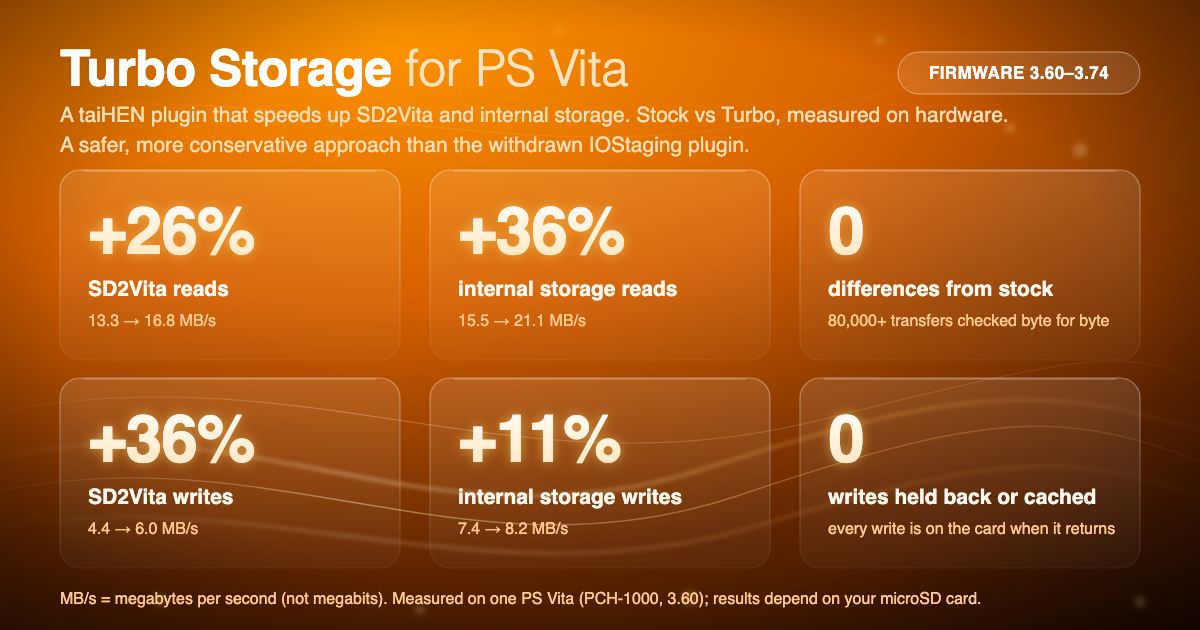
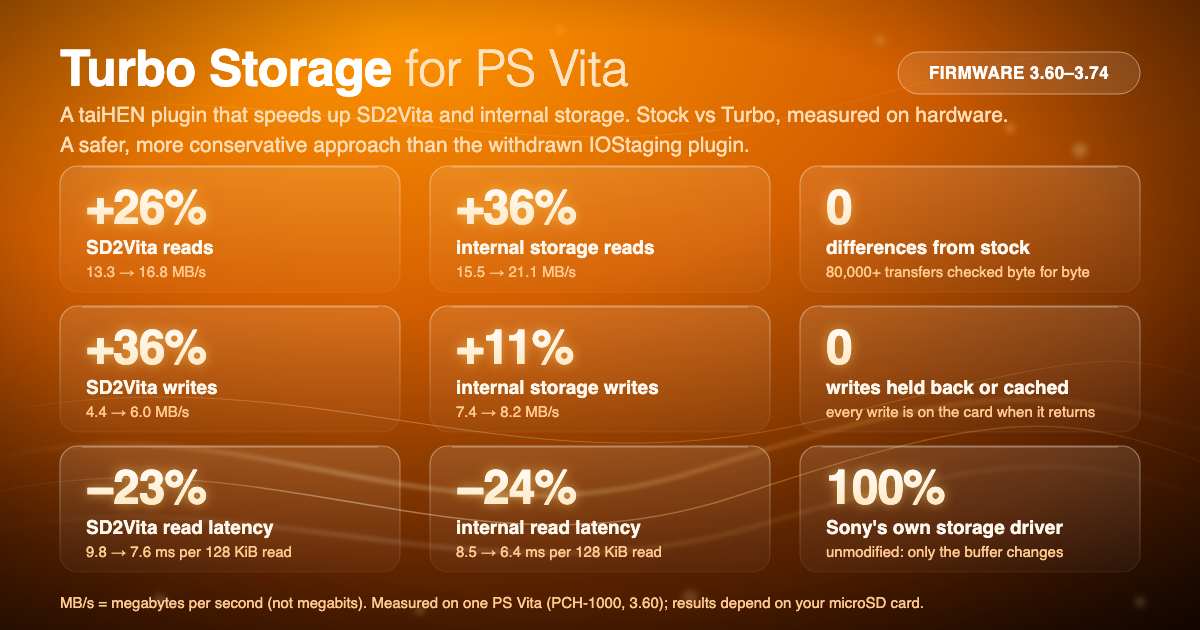
docs: add read latency figures and credit bythos14 for IOStaging
The headline image gains a latency row (SD2Vita and internal read latency,
and the unmodified-driver point); the README gains a Latency table measured
call by call. IOStaging's author, bythos14, is now credited as the
inspiration.

diff --git a/README.md b/README.md
@@ -51,6 +51,24 @@ byte-for-byte afterwards.
 Writes vary a lot from run to run because the card itself pauses to reorganise
 its flash; the write figures are averages over three or four alternated rounds.
 
+### Latency
+
+How long each single read takes, timed call by call (median, and the slowest 1%
+in brackets). Three alternated rounds, same console.
+
+| Read size | Stock | Turbo Storage | Change |
+|---|---|---|---|
+| SD2Vita, 32 KiB | 3.3 ms (3.6) | **2.3 ms (2.7)** | **−31%** |
+| SD2Vita, 128 KiB | 9.8 ms (10.5) | **7.6 ms (8.7)** | **−23%** |
+| SD2Vita, 1 MiB | 73.9 ms (79.3) | **59.0 ms (62.2)** | **−20%** |
+| Internal, 128 KiB | 8.5 ms (9.9) | **6.4 ms (7.4)** | **−24%** |
+| Internal, 1 MiB | 63.5 ms (97.9) | **46.7 ms (72.0)** | **−26%** |
+
+The slowest reads improve as much as the typical ones. Reads under 32 KiB take the
+standard path and are unchanged. Writes are 0–15% quicker per call; their
+occasional multi-second pauses come from the card itself, with or without Turbo
+Storage.
+
 **What you'll notice:** faster copies, VPK installs and anything that reads or
 writes big files. **What you won't:** most game loading. A game launch we measured
 spent only about 4% of its time waiting for storage; the rest is the game itself.
@@ -145,8 +163,9 @@ The port has no password. Leave Developer mode off unless you're testing.
 
 ## How it compares
 
-Turbo Storage isn't the first attempt at this. **IOStaging** (2023) was built on
-the same observation and was withdrawn by its own author, who suspected it of
+Turbo Storage isn't the first attempt at this. **IOStaging** (2023) by
+[bythos14](https://github.com/bythos14) was built on the same observation, and was
+the inspiration for this project. Its author later withdrew it, suspecting it of
 corrupting data. Turbo Storage takes a deliberately more conservative approach:
 
 | | Turbo Storage |
@@ -299,7 +318,8 @@ Built on [taiHEN](https://github.com/yifanlu/taiHEN),
 [VitaSDK](https://vitasdk.org) and
 [vitacompanion](https://github.com/devnoname120/vitacompanion). The Settings page
 and HUD follow [Wi-Fi Turbo](https://github.com/juanjsebgarcia/vita-turbo-wifi). Thanks to the
-PS Vita homebrew community, and to IOStaging for spotting the problem first.
+PS Vita homebrew community, and especially to [bythos14](https://github.com/bythos14),
+whose IOStaging spotted the problem first and inspired Turbo Storage.
 
 ## License
 
